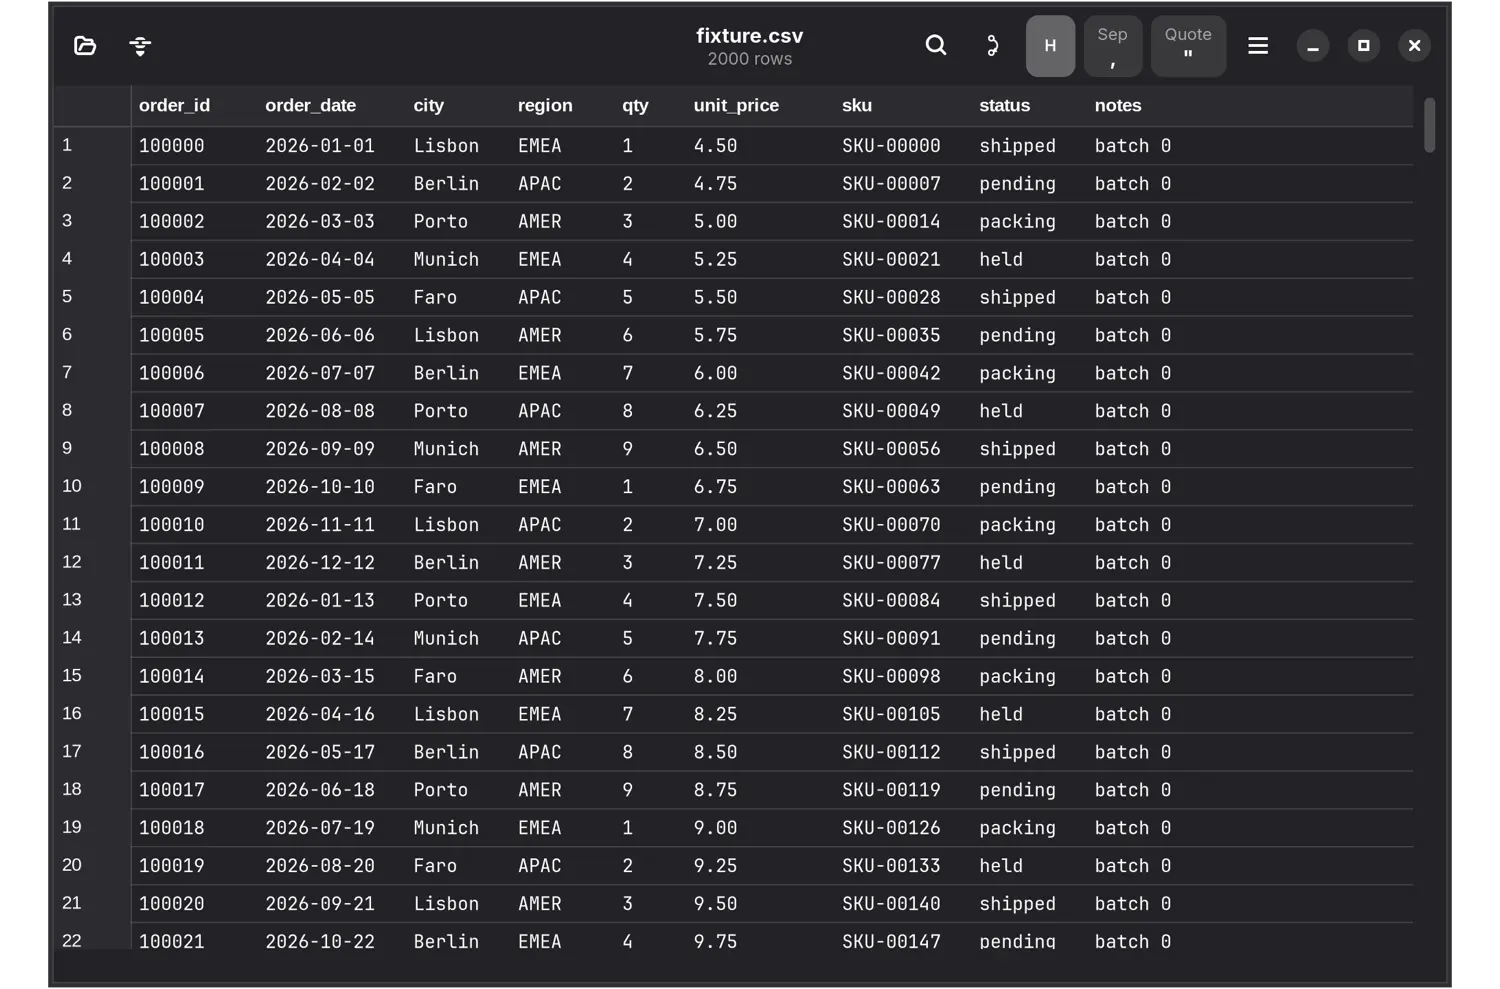
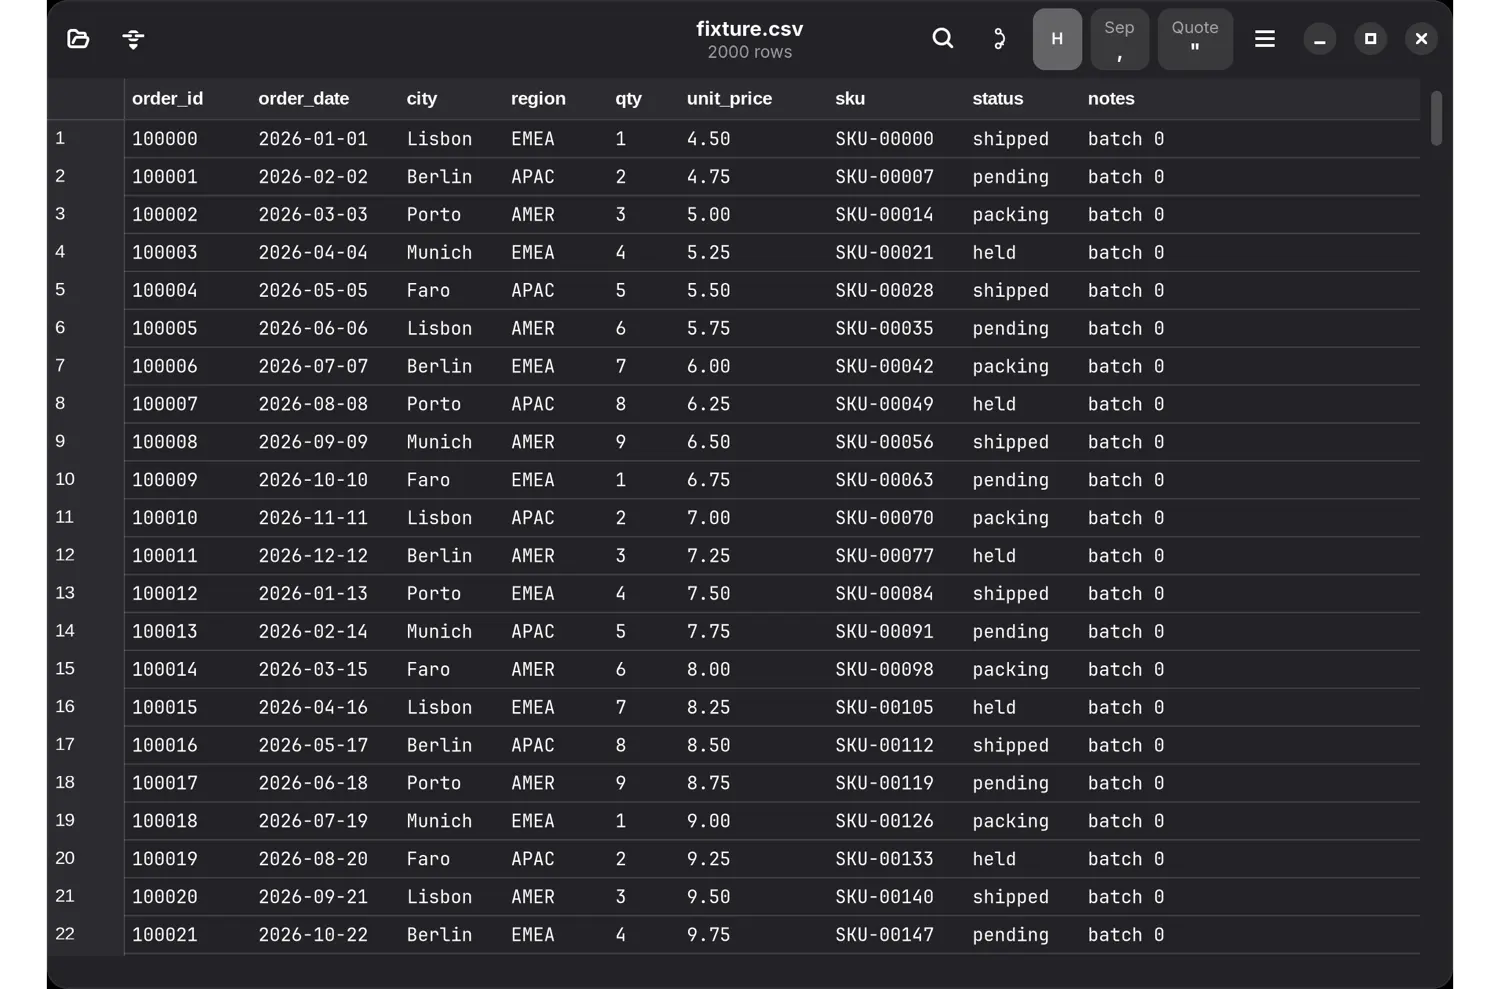
shots: the Linux set now shows the real window, and the real feature
Three faults, each found by looking at the image rather than the exit status.

ROUNDED CORNERS. GTK4 asks `gdk_display_is_composited()` before drawing
client-side decorations; the capture ran Xvfb with no window manager, so every
Linux shot got the SQUARE, opaque fallback next to macOS shots taken under a
compositor that is always running. picom now runs for the session, so the corners
are photographed rather than paint on afterwards.

POPOVERS VANISHED once picom was added — because a compositor makes them
SIBLING top-level windows rather than part of the document window, and the shot
grabs one window. The result was a perfectly correct grid with the find bar
simply absent, which is a worse lie than the square corners. Each smaller
matching window is now composited back at its offset relative to the document
window, and its pixels are cropped from a ROOT grab rather than grabbed
per-window: grabbing the popover directly returns its shadow region unblended,
which landed on the page as a hard black box around the find bar. The document
window is still grabbed per-window, because that is what preserves the alpha
outside its rounded corners.

WINDOW CHOICE. The matcher took the FIRST window whose name matched, and under a
compositor the popover matches too — so one run cropped the entire shot to the
popover: a find bar floating on black. It now takes the LARGEST match, which
needs no knowledge of GTK's window naming.
[…]

diff --git a/apps/gtk/src/main.c b/apps/gtk/src/main.c
@@ -7230,55 +7230,87 @@ capture_drive (App *app, const char *query, const char *row)
          * tab, same popover — so the predicate feature is never pictured.
          * Mirrors the macOS LESSSHEET_FILTER_WHERE contract, header by NAME so
          * a fixture gaining a column cannot silently retarget the shot. */
+        /* LESSSHEET_GTK_CAPTURE_WHERE=<header>=<value> shoots a COLUMN
+         * PREDICATE instead of a text match filtered to hits. Without it the
+         * filter shot differs from the search shot only by the toggle — same
+         * tab, same popover — so the predicate feature is never pictured.
+         * Mirrors the macOS LESSSHEET_FILTER_WHERE contract, header by NAME so
+         * a fixture gaining a column cannot silently retarget the shot. */
         const char *where = g_getenv ("LESSSHEET_GTK_CAPTURE_WHERE");
         const char *eq = (where != NULL) ? strchr (where, '=') : NULL;
-        if (eq != NULL && eq != where && *(eq + 1) != '\0'
-            && app->find_stack != NULL && app->where_column != NULL)
-          {
-            char *header = g_strndup (where, (gsize)(eq - where));
-            open_find (app);
-            gtk_stack_set_visible_child_name (app->find_stack, "where");
-            where_ensure_columns (app); /* model is lazy; it must exist now */
+        gboolean did_where = FALSE;
 
-            GListModel *model = gtk_drop_down_get_model (app->where_column);
-            guint found = GTK_INVALID_LIST_POSITION;
-            for (guint i = 0;
-                 model != NULL && i < g_list_model_get_n_items (model); i++)
+        if (eq != NULL && eq != where && *(eq + 1) != '\0')
+          {
+            /* open_find FIRST. The Where widgets do not exist until the
+             * popover is built, so testing them before this point always
+             * failed and the shot silently fell back to the text filter —
+             * which is exactly the wrong picture this hook exists to stop
+             * shipping. */
+            open_find (app);
+            if (app->find_stack != NULL && app->where_column != NULL)
               {
-                const char *label
-                    = gtk_string_list_get_string (GTK_STRING_LIST (model), i);
-                /* The label may carry a disambiguating tag for duplicate
-                 * headers, so match the leading name, not the whole string. */
-                if (label != NULL
-                    && g_ascii_strncasecmp (label, header, strlen (header))
-                           == 0)
+                char *header = g_strndup (where, (gsize)(eq - where));
+                gtk_stack_set_visible_child_name (app->find_stack, "where");
+                where_ensure_columns (app); /* model is lazy; needed now */
+
+                GListModel *model
+                    = gtk_drop_down_get_model (app->where_column);
+                guint found = GTK_INVALID_LIST_POSITION;
+                guint n
+                    = (model != NULL) ? g_list_model_get_n_items (model) : 0;
+                for (guint i = 0; i < n; i++)
                   {
-                    found = i;
-                    break;
+                    const char *label = gtk_string_list_get_string (
+                        GTK_STRING_LIST (model), i);
+                    /* The label may carry a disambiguating tag for duplicate
+                     * headers, so match the leading name, not the whole
+                     * string. */
+                    if (label != NULL
+                        && g_ascii_strncasecmp (label, header, strlen (header))
+                               == 0)
+                      {
+                        found = i;
+                        break;
+                      }
                   }
-              }
-            if (found != GTK_INVALID_LIST_POSITION)
-              {
-                gtk_drop_down_set_selected (app->where_column, found);
-                if (app->where_op != NULL)
-                  gtk_drop_down_set_selected (app->where_op, LSG_SEARCH_OP_EQ);
-                if (app->where_value != NULL)
-                  gtk_editable_set_text (app->where_value, eq + 1);
-                gtk_toggle_button_set_active (app->filter_toggle, TRUE);
+                if (found != GTK_INVALID_LIST_POSITION)
+                  {
+                    gtk_drop_down_set_selected (app->where_column, found);
+                    if (app->where_op != NULL)
+                      gtk_drop_down_set_selected (app->where_op,
+                                                  LSG_SEARCH_OP_EQ);
+                    if (app->where_value != NULL)
+                      gtk_editable_set_text (app->where_value, eq + 1);
+                    did_where = TRUE;
+                    /* Report SUCCESS too, not just the failures. A hook that
+                     * is silent when it works and silent when it quietly falls
+                     * back cannot be diagnosed from a log at all — which is
+                     * exactly the position this one left us in. */
+                    g_printerr (
+                        "lesssheet.gtk.capture_where=applied column=%u\n",
+                        found);
+                  }
+                else
+                  g_printerr (
+                      "lesssheet.gtk.capture_where_unknown_column=%s\n",
+                      header);
                 g_free (header);
-                break;
               }
-            g_printerr ("lesssheet.gtk.capture_where_unknown_column=%s\n",
-                        header);
-            g_free (header);
+            else
+              g_printerr ("lesssheet.gtk.capture_where_no_widgets\n");
           }
+
+        if (!did_where)
+          {
+            gtk_editable_set_text (app->find_entry, query);
+            open_find (app);
+          }
+        /* set_active EMITS "toggled" -> on_filter_toggled -> do_apply_filter:
+         * the click path. filter_set_toggle would guard that handler out and
+         * silently change nothing but the button's look. */
+        gtk_toggle_button_set_active (app->filter_toggle, TRUE);
       }
-      gtk_editable_set_text (app->find_entry, query);
-      open_find (app);
-      /* set_active EMITS "toggled" -> on_filter_toggled -> do_apply_filter:
-       * the click path. filter_set_toggle would guard that handler out and
-       * silently change nothing but the button's look. */
-      gtk_toggle_button_set_active (app->filter_toggle, TRUE);
       break;
 
     case LSG_CAPTURE_NONE:
@@ -7288,10 +7320,11 @@ capture_drive (App *app, const char *query, const char *row)
   app->capture.t_drive = g_get_monotonic_time ();
 }
 
-/* The settle machine: one step per frame-clock beat. A tick callback and not a
- * timeout, because the whole question is "has the settled state been PAINTED",
- * and only the frame clock can answer it. Ticks run in the clock's UPDATE
- * phase, so a queue_draw issued here is served by THIS frame's paint. */
+/* The settle machine: one step per frame-clock beat. A tick callback and not
+ * a timeout, because the whole question is "has the settled state been
+ * PAINTED", and only the frame clock can answer it. Ticks run in the clock's
+ * UPDATE phase, so a queue_draw issued here is served by THIS frame's paint.
+ */
 static gboolean
 capture_tick (GtkWidget *widget, GdkFrameClock *clock, gpointer data)
 {
@@ -7311,7 +7344,8 @@ capture_tick (GtkWidget *widget, GdkFrameClock *clock, gpointer data)
   if (waited_ms > LSG_CAPTURE_BUDGET_MS)
     {
       /* Say WHAT it was waiting for: a bare "timeout" leaves the operator to
-       * guess between "the state never happened" and "the marker is wrong". */
+       * guess between "the state never happened" and "the marker is wrong".
+       */
       capture_state_verdict (app, &reason);
       capture_finish (app, "timeout",
                       g_strdup_printf ("waited_ms=%" G_GINT64_FORMAT
@@ -7323,9 +7357,10 @@ capture_tick (GtkWidget *widget, GdkFrameClock *clock, gpointer data)
 
   if (app->capture.stage == LSG_CAPTURE_STAGE_SETTLING)
     {
-      /* A jump LANDING pops its own popover down (jump_poll_fold), so "control
-       * open, landed" is reached the way a user reaches it: press Ctrl+G
-       * again. The entry still holds the row — no close path clears it. */
+      /* A jump LANDING pops its own popover down (jump_poll_fold), so
+       * "control open, landed" is reached the way a user reaches it: press
+       * Ctrl+G again. The entry still holds the row — no close path clears
+       * it. */
       if (app->capture.shot == LSG_CAPTURE_JUMP && app->capture.jump_landed
           && !app->capture.jump_reopened)
         {
@@ -7345,8 +7380,8 @@ capture_tick (GtkWidget *widget, GdkFrameClock *clock, gpointer data)
         }
       if (verdict != LSG_CAPTURE_SETTLED)
         return G_SOURCE_CONTINUE;
-      /* Settled — but a drive can still have a delayed re-run queued behind it
-       * (LSG_CAPTURE_QUIET_MS says which and why). */
+      /* Settled — but a drive can still have a delayed re-run queued behind
+       * it (LSG_CAPTURE_QUIET_MS says which and why). */
       if ((g_get_monotonic_time () - app->capture.t_drive) / 1000
           < LSG_CAPTURE_QUIET_MS)
         return G_SOURCE_CONTINUE;
@@ -7361,9 +7396,9 @@ capture_tick (GtkWidget *widget, GdkFrameClock *clock, gpointer data)
   verdict = capture_state_verdict (app, &reason);
   if (verdict != LSG_CAPTURE_SETTLED)
     {
-      /* It regressed before being announced (a late re-run). Nothing is lost —
-       * no marker has been printed — so go back to waiting; an IMPOSSIBLE now
-       * reports itself on the next SETTLING tick. */
+      /* It regressed before being announced (a late re-run). Nothing is lost
+       * — no marker has been printed — so go back to waiting; an IMPOSSIBLE
+       * now reports itself on the next SETTLING tick. */
       app->capture.stage = LSG_CAPTURE_STAGE_SETTLING;
       app->capture.paint_seen = FALSE;
       return G_SOURCE_CONTINUE;
@@ -7385,8 +7420,8 @@ capture_tick (GtkWidget *widget, GdkFrameClock *clock, gpointer data)
 }
 
 /* Arm: read the rest of the env surface, refuse an unusable request LOUDLY,
- * drive the state, and start the settle machine. Runs exactly once per process
- * and only when the env var is set. Deferred onto an idle by
+ * drive the state, and start the settle machine. Runs exactly once per
+ * process and only when the env var is set. Deferred onto an idle by
  * capture_note_paint so the handlers below are never entered from inside a
  * draw. */
 static void
@@ -7396,8 +7431,8 @@ capture_arm (App *app)
   app->capture.stage = LSG_CAPTURE_STAGE_SETTLING;
   app->capture.t_arm = g_get_monotonic_time ();
 
-  /* Read here, not in main(): an unarmed run must not even look. Borrowed for
-   * the length of this function only. */
+  /* Read here, not in main(): an unarmed run must not even look. Borrowed
+   * for the length of this function only. */
   const char *query = g_getenv ("LESSSHEET_GTK_CAPTURE_QUERY");
   const char *row = g_getenv ("LESSSHEET_GTK_CAPTURE_ROW");
 
@@ -7443,8 +7478,8 @@ capture_arm_idle (gpointer data)
 }
 
 /* Forward-declared at the top of the file. Called at the END of every
- * completed grid_draw: arm on the first DATA-bearing frame, and while settling
- * record the frame that carried the settled cells. */
+ * completed grid_draw: arm on the first DATA-bearing frame, and while
+ * settling record the frame that carried the settled cells. */
 static void
 capture_note_paint (App *app, guint32 rows, guint32 cols)
 {
@@ -7479,8 +7514,8 @@ capture_note_paint (App *app, guint32 rows, guint32 cols)
     }
 }
 
-/* Forward-declared at the top of the file. A find query was (re)issued, so the
- * quiet window restarts — see LSG_CAPTURE_QUIET_MS for the pending
+/* Forward-declared at the top of the file. A find query was (re)issued, so
+ * the quiet window restarts — see LSG_CAPTURE_QUIET_MS for the pending
  * "search-changed" this exists to outlast. */
 static void
 capture_note_find_run (App *app)
@@ -7540,19 +7575,20 @@ main (int argc, char *argv[])
   App app = { 0 };
   app.t_start = g_get_monotonic_time (); /* capture entry ASAP */
   app.timing = (g_getenv ("LESSSHEET_GTK_TIMING") != NULL);
-  /* Screenshot-capture affordance: ONE env read, and deliberately nothing else
-   * — the value is not even PARSED until after the first data-bearing paint,
-   * and the query/row vars are not read at all, so an unarmed run (every
-   * normal run, including the one LESSSHEET_GTK_TIMING measures above) costs a
-   * single getenv and allocates nothing. See the capture section. */
+  /* Screenshot-capture affordance: ONE env read, and deliberately nothing
+   * else — the value is not even PARSED until after the first data-bearing
+   * paint, and the query/row vars are not read at all, so an unarmed run
+   * (every normal run, including the one LESSSHEET_GTK_TIMING measures
+   * above) costs a single getenv and allocates nothing. See the capture
+   * section. */
   app.capture.env = g_getenv ("LESSSHEET_GTK_CAPTURE");
   app.row_estimate = 1;
   app.find = lsg_find_initial ();
   app.find_nav_direction = LSG_SEARCH_FORWARD;
   app.jump = lsg_jump_initial ();
   app.filter = lsg_filter_initial ();
-  /* Data cell VALUES: small MONOSPACE (uniform advance -> accurate O(1) column
-   * widths + macOS parity). Headers + all chrome stay sans-serif. */
+  /* Data cell VALUES: small MONOSPACE (uniform advance -> accurate O(1)
+   * column widths + macOS parity). Headers + all chrome stay sans-serif. */
   app.font_desc = pango_font_description_from_string ("Monospace 10");
   app.header_font_desc = pango_font_description_from_string ("Sans Bold 10");
   app.gutter_font_desc = pango_font_description_from_string ("Sans 10");
